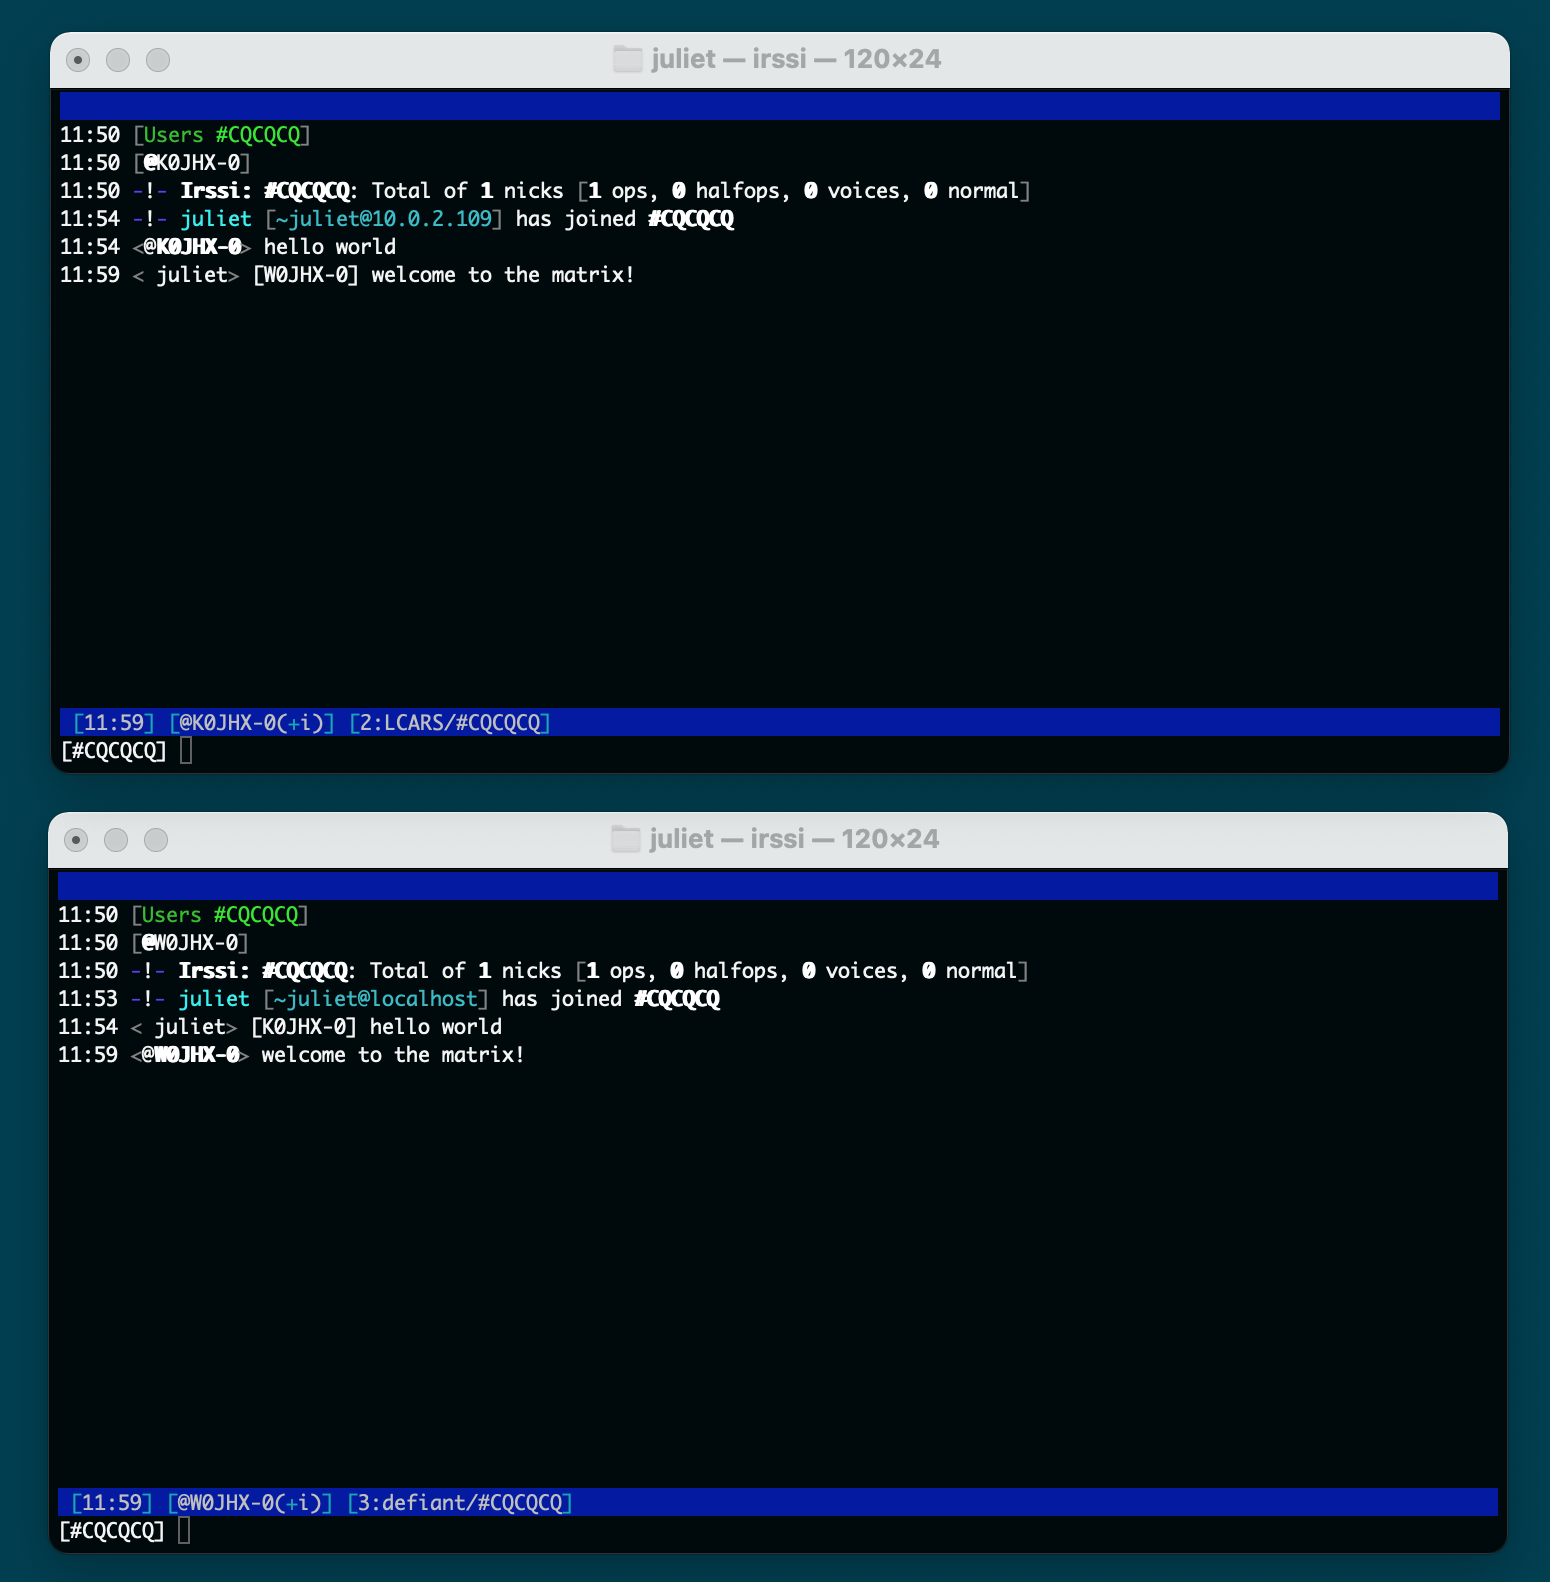
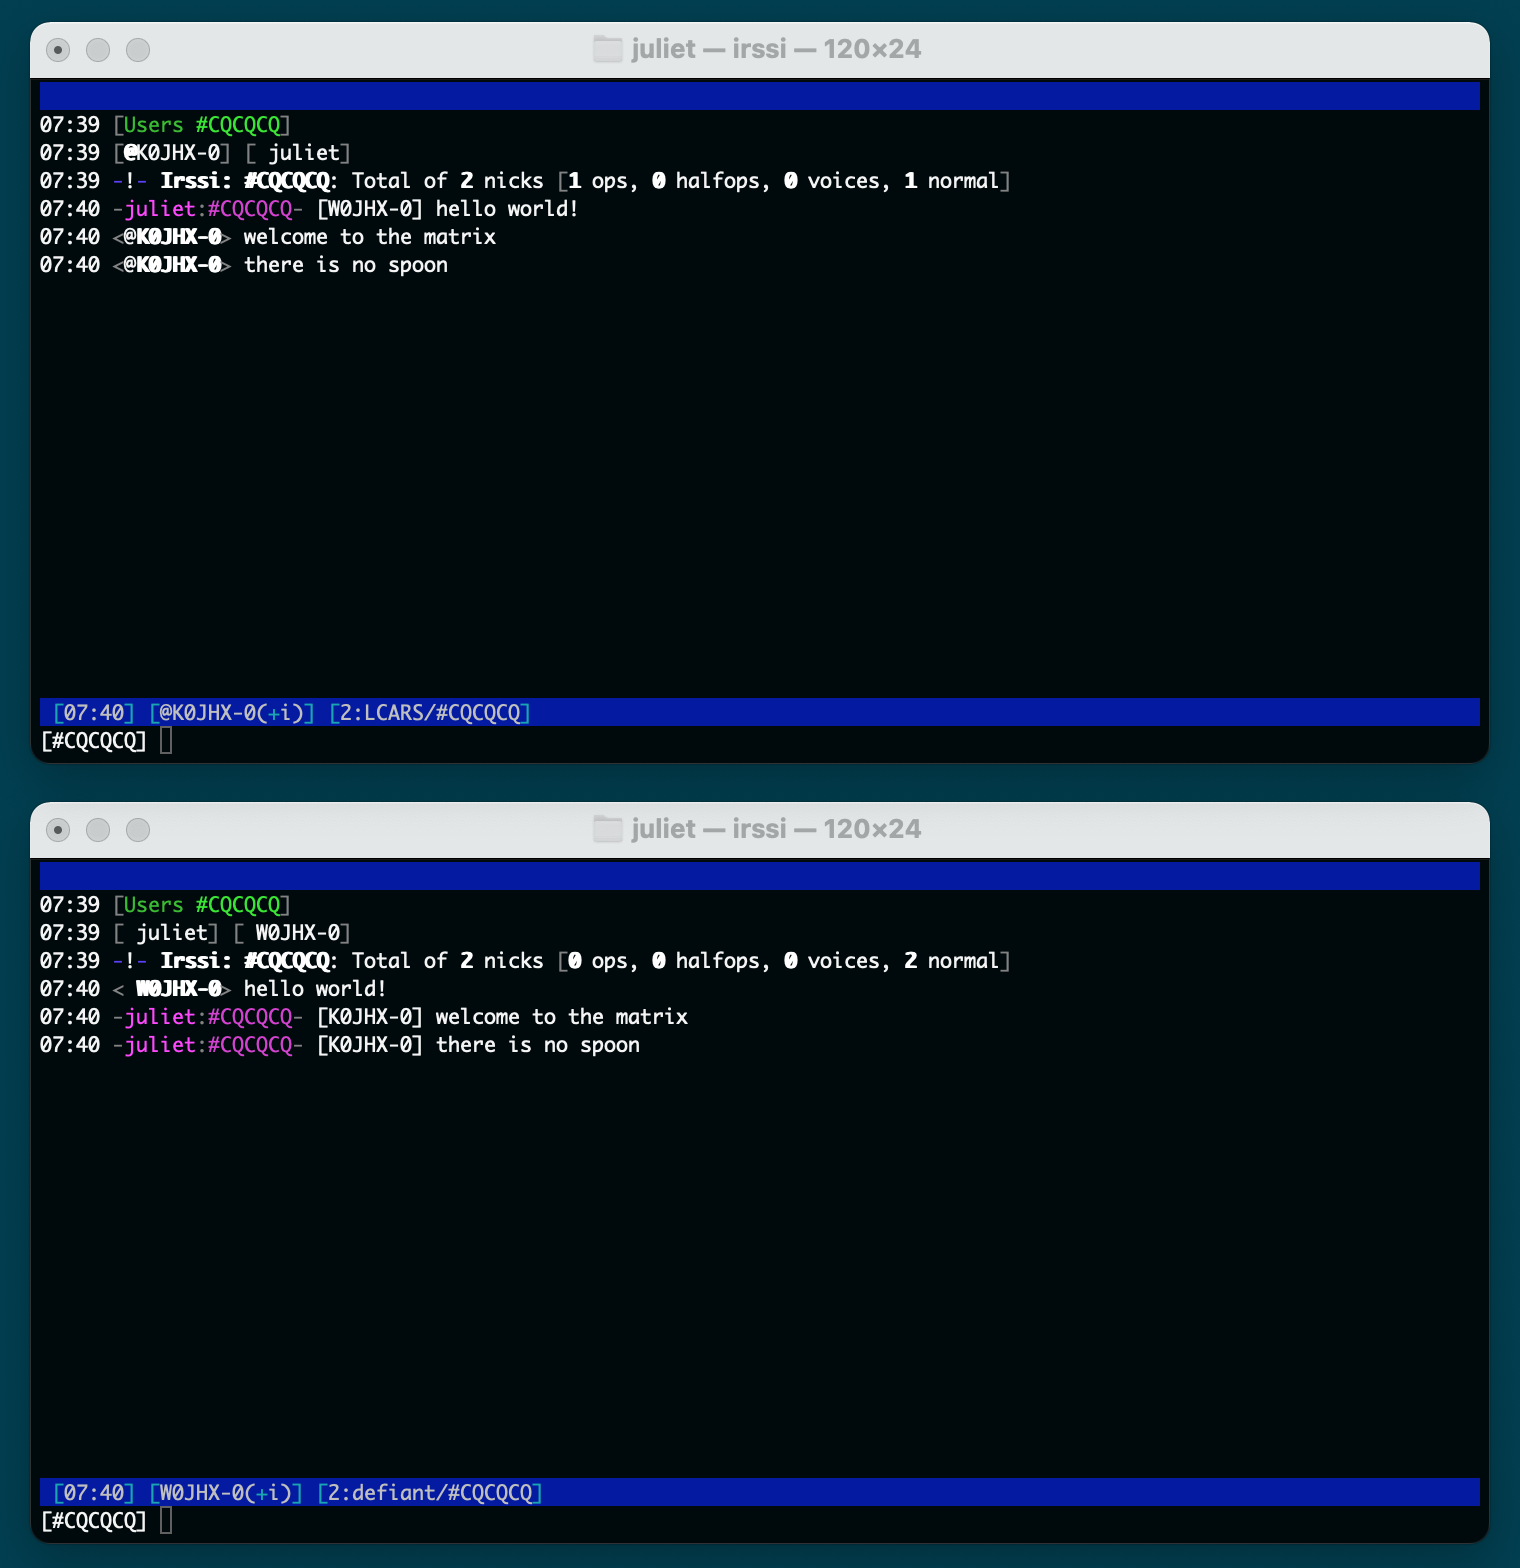
Documentation update

Changed region(s): [[0.0, 0.0, 0.9895, 1.0]]

diff --git a/README.md b/README.md
@@ -7,6 +7,22 @@ radio capable of exchanging data over a standard serial port _should_ work.
 
 Written by W0JHX.  Tested using Icom 92AD with the standard programming cable.
 
+![Chat Session](docs/hello_world.png)
+
+## Setup ##
+
+At the moment, there is no installer for `juliet`, simply download the repository to an
+appropriate folder on your computer.
+
+Before using `juliet`, you will need to install the modules from `requirements.txt`:
+
+```
+python3 -m install -r requirements.txt
+```
+
+*NOTE* Advanced users may with to do this using `venv` to avoid changes in their
+system libraries.
+
 ## Usage ##
 
 ```
@@ -25,11 +41,8 @@ avoid frequency congenstion.
 
 ## Configuration ##
 
-TODO - more information here...
-
-### Logging ###
-
-Enable logging to help with troubleshooting.
+This documentation is missing...  For now, please use the sample `juliet.cfg` file to
+get started.
 
 ## Technical Info ##
 
@@ -78,5 +91,10 @@ The `version` field denotes both message structure as well as content type.
 * 1 - compressed & base-64 encoded text
 * 3 - channel text
 * 7 - file message - currently unused, but here for completeness
+
+## Contributions ##
+
+If you are interested in contributing to `juliet`, I would welcome the help!  Feel free
+to send me a message or just fork this repo and submit a pull request.
 
 _-73_
